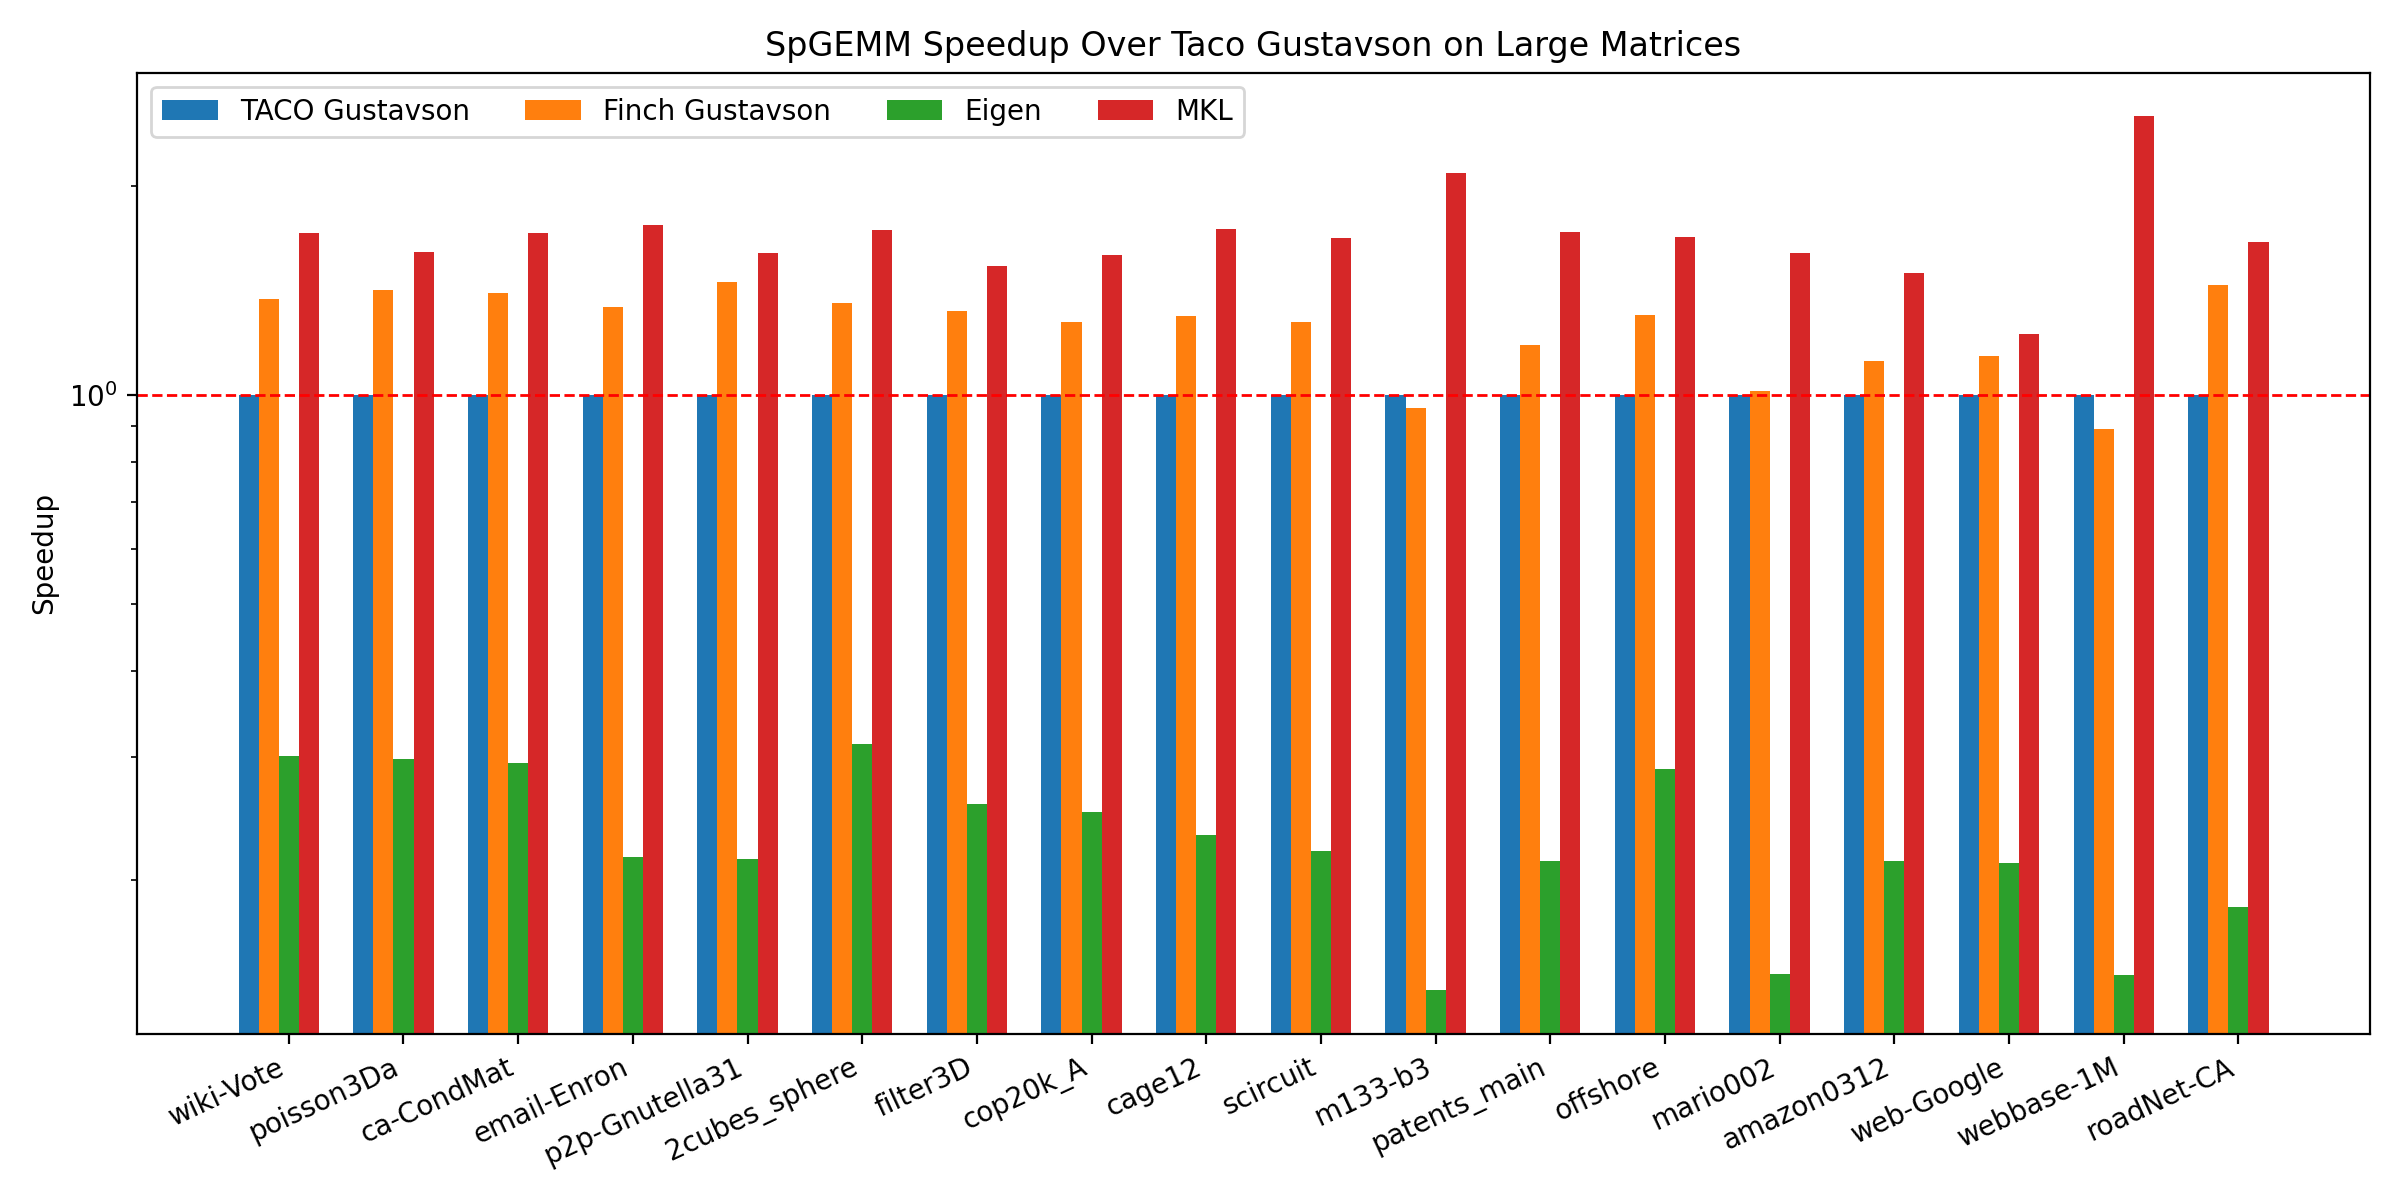
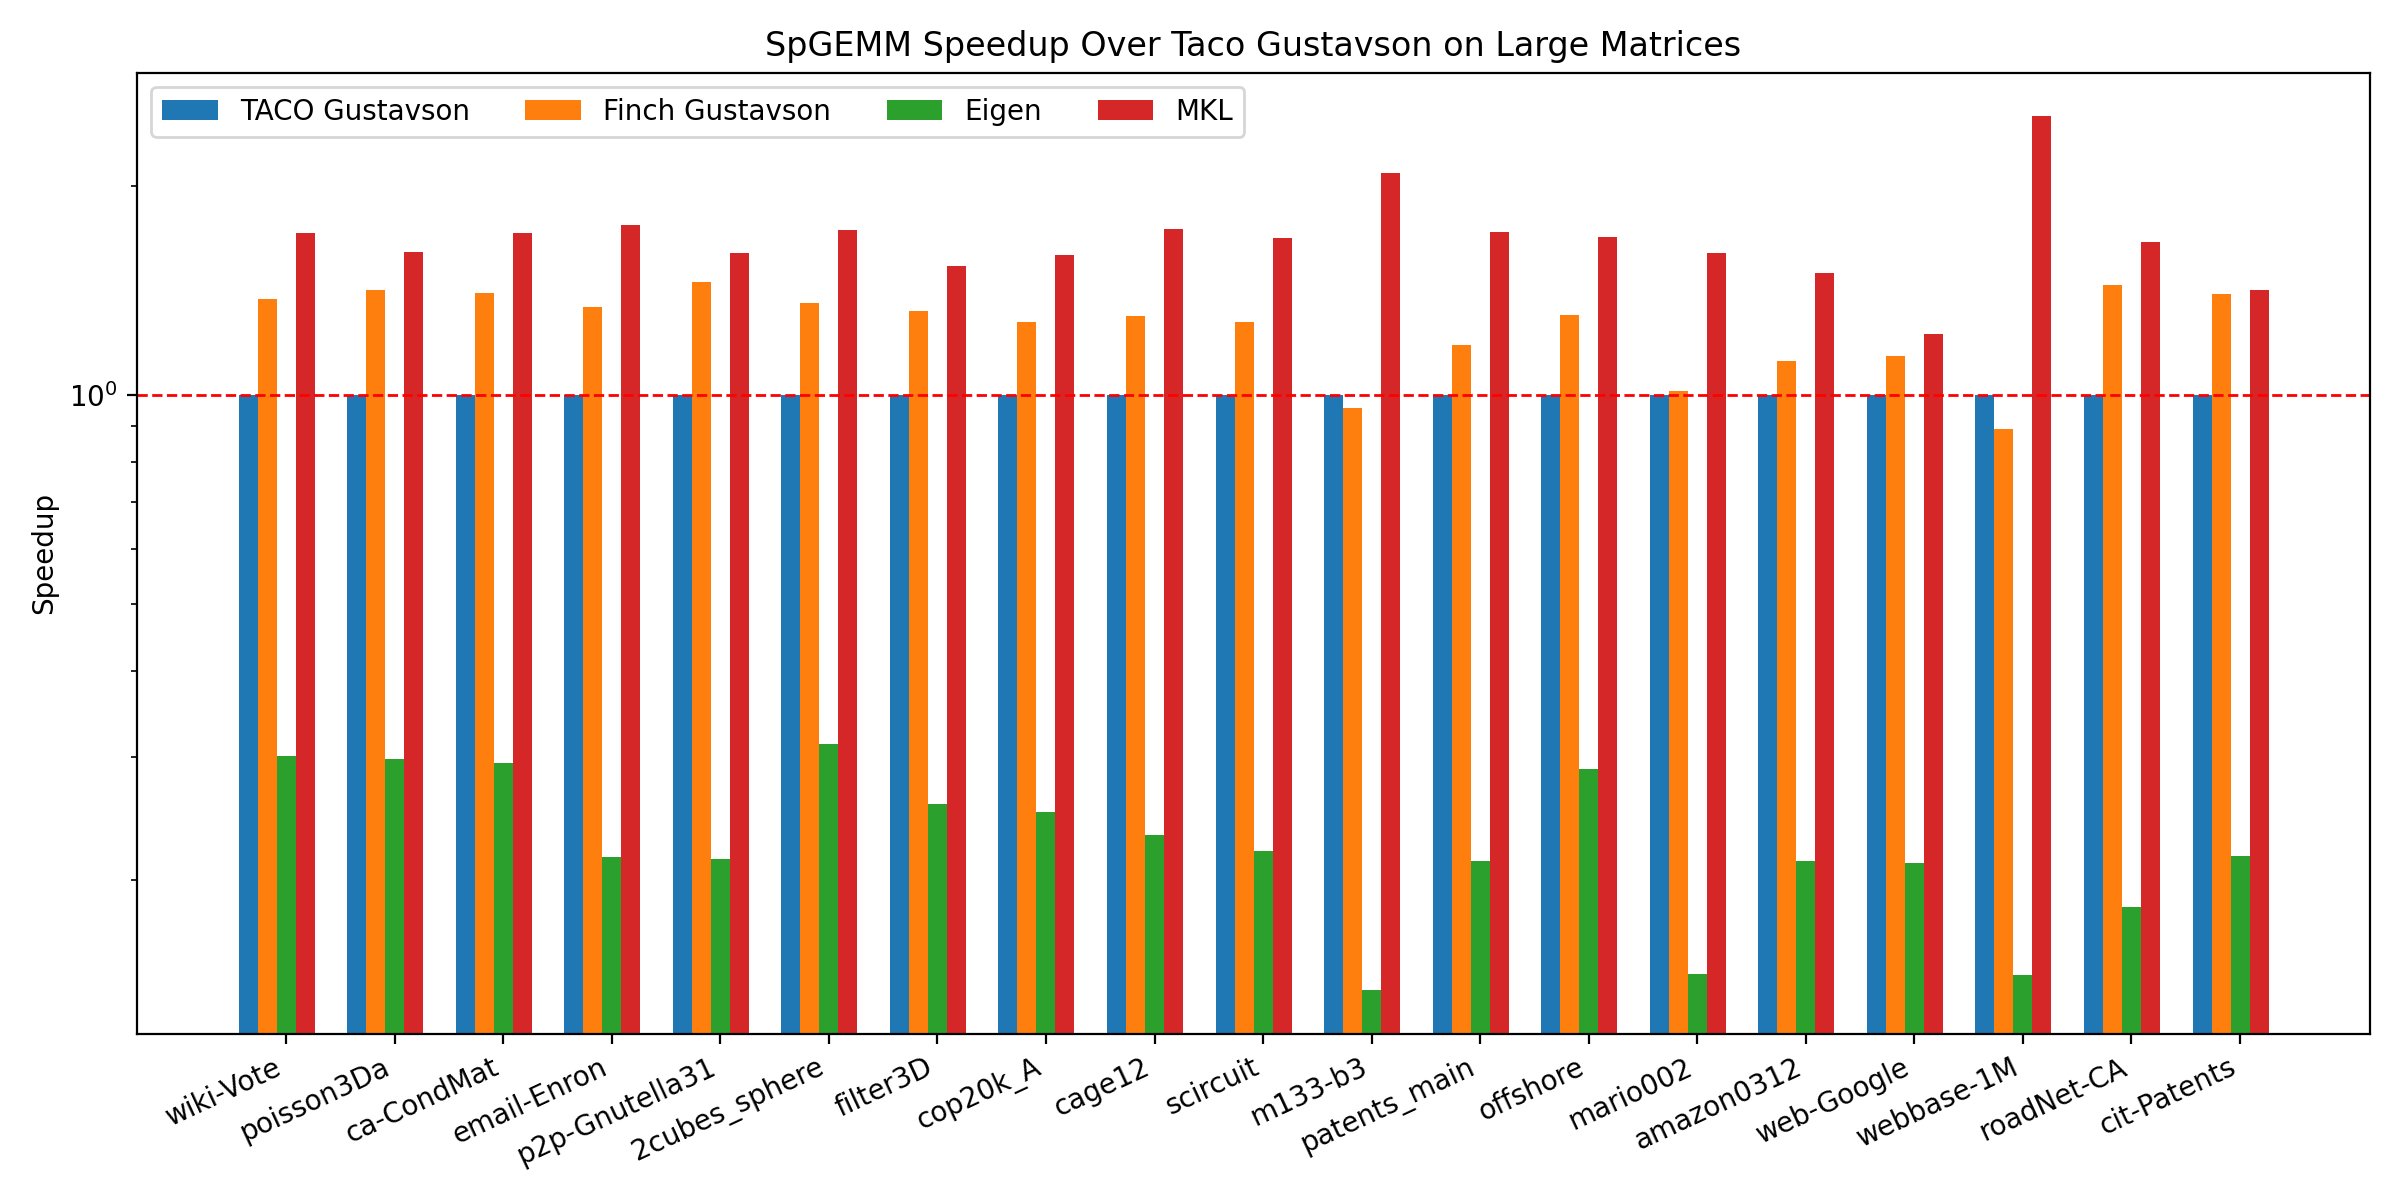
fix

diff --git a/spgemm/chart.py b/spgemm/chart.py
@@ -119,7 +119,7 @@ matrix_order = [
 "SNAP/web-Google", 
 "Williams/webbase-1M", 
 "SNAP/roadNet-CA", 
-#"SNAP/cit-Patents"
+"SNAP/cit-Patents"
 ]
 
 method_order = [
